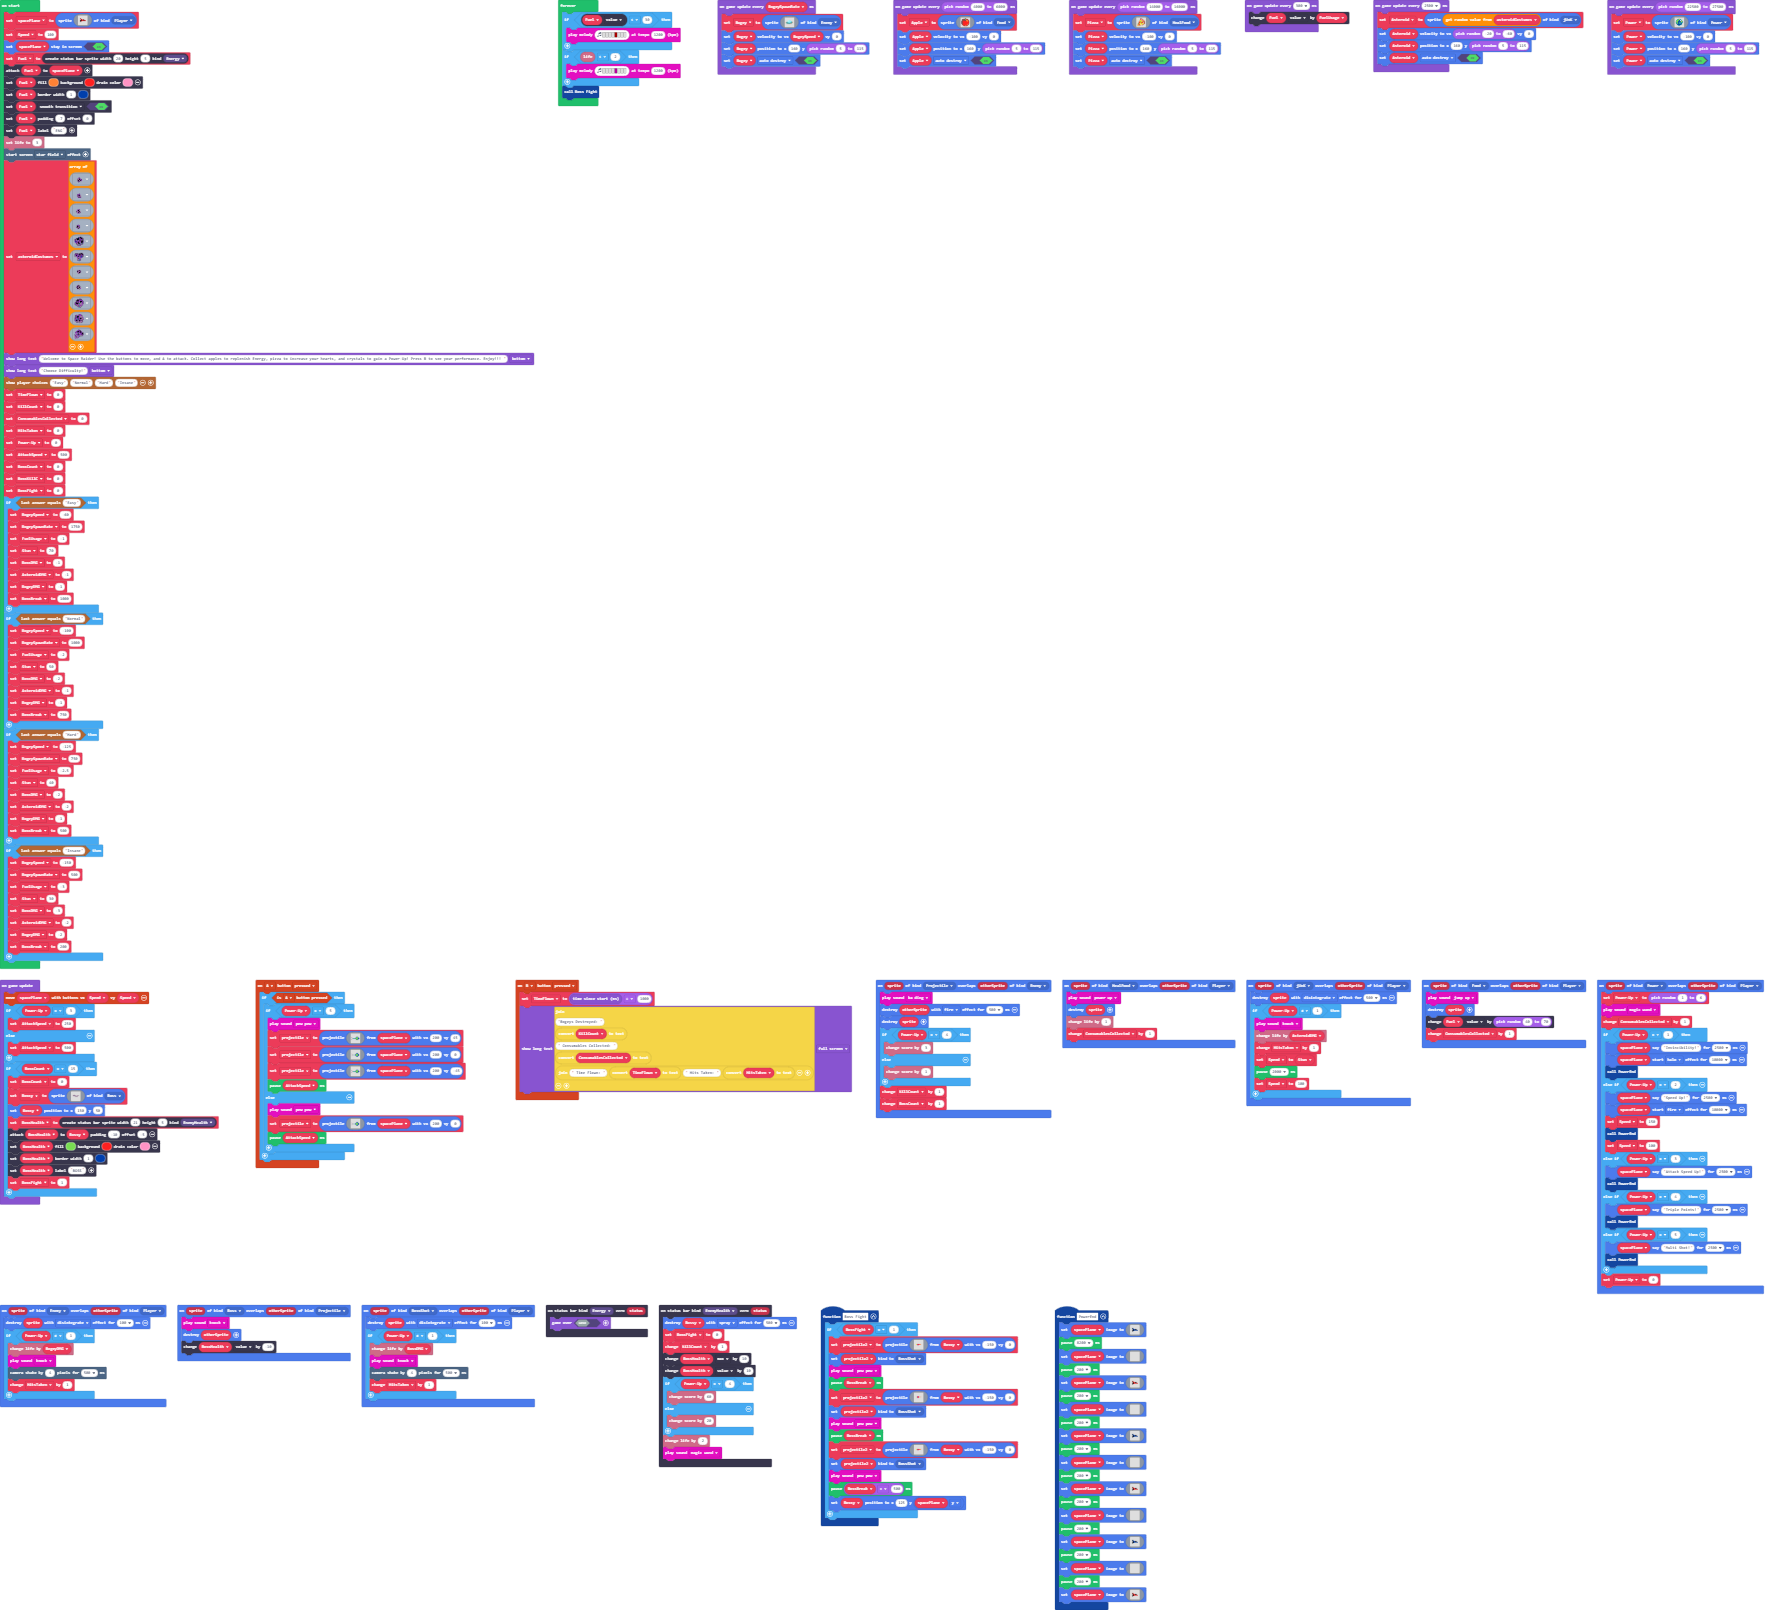
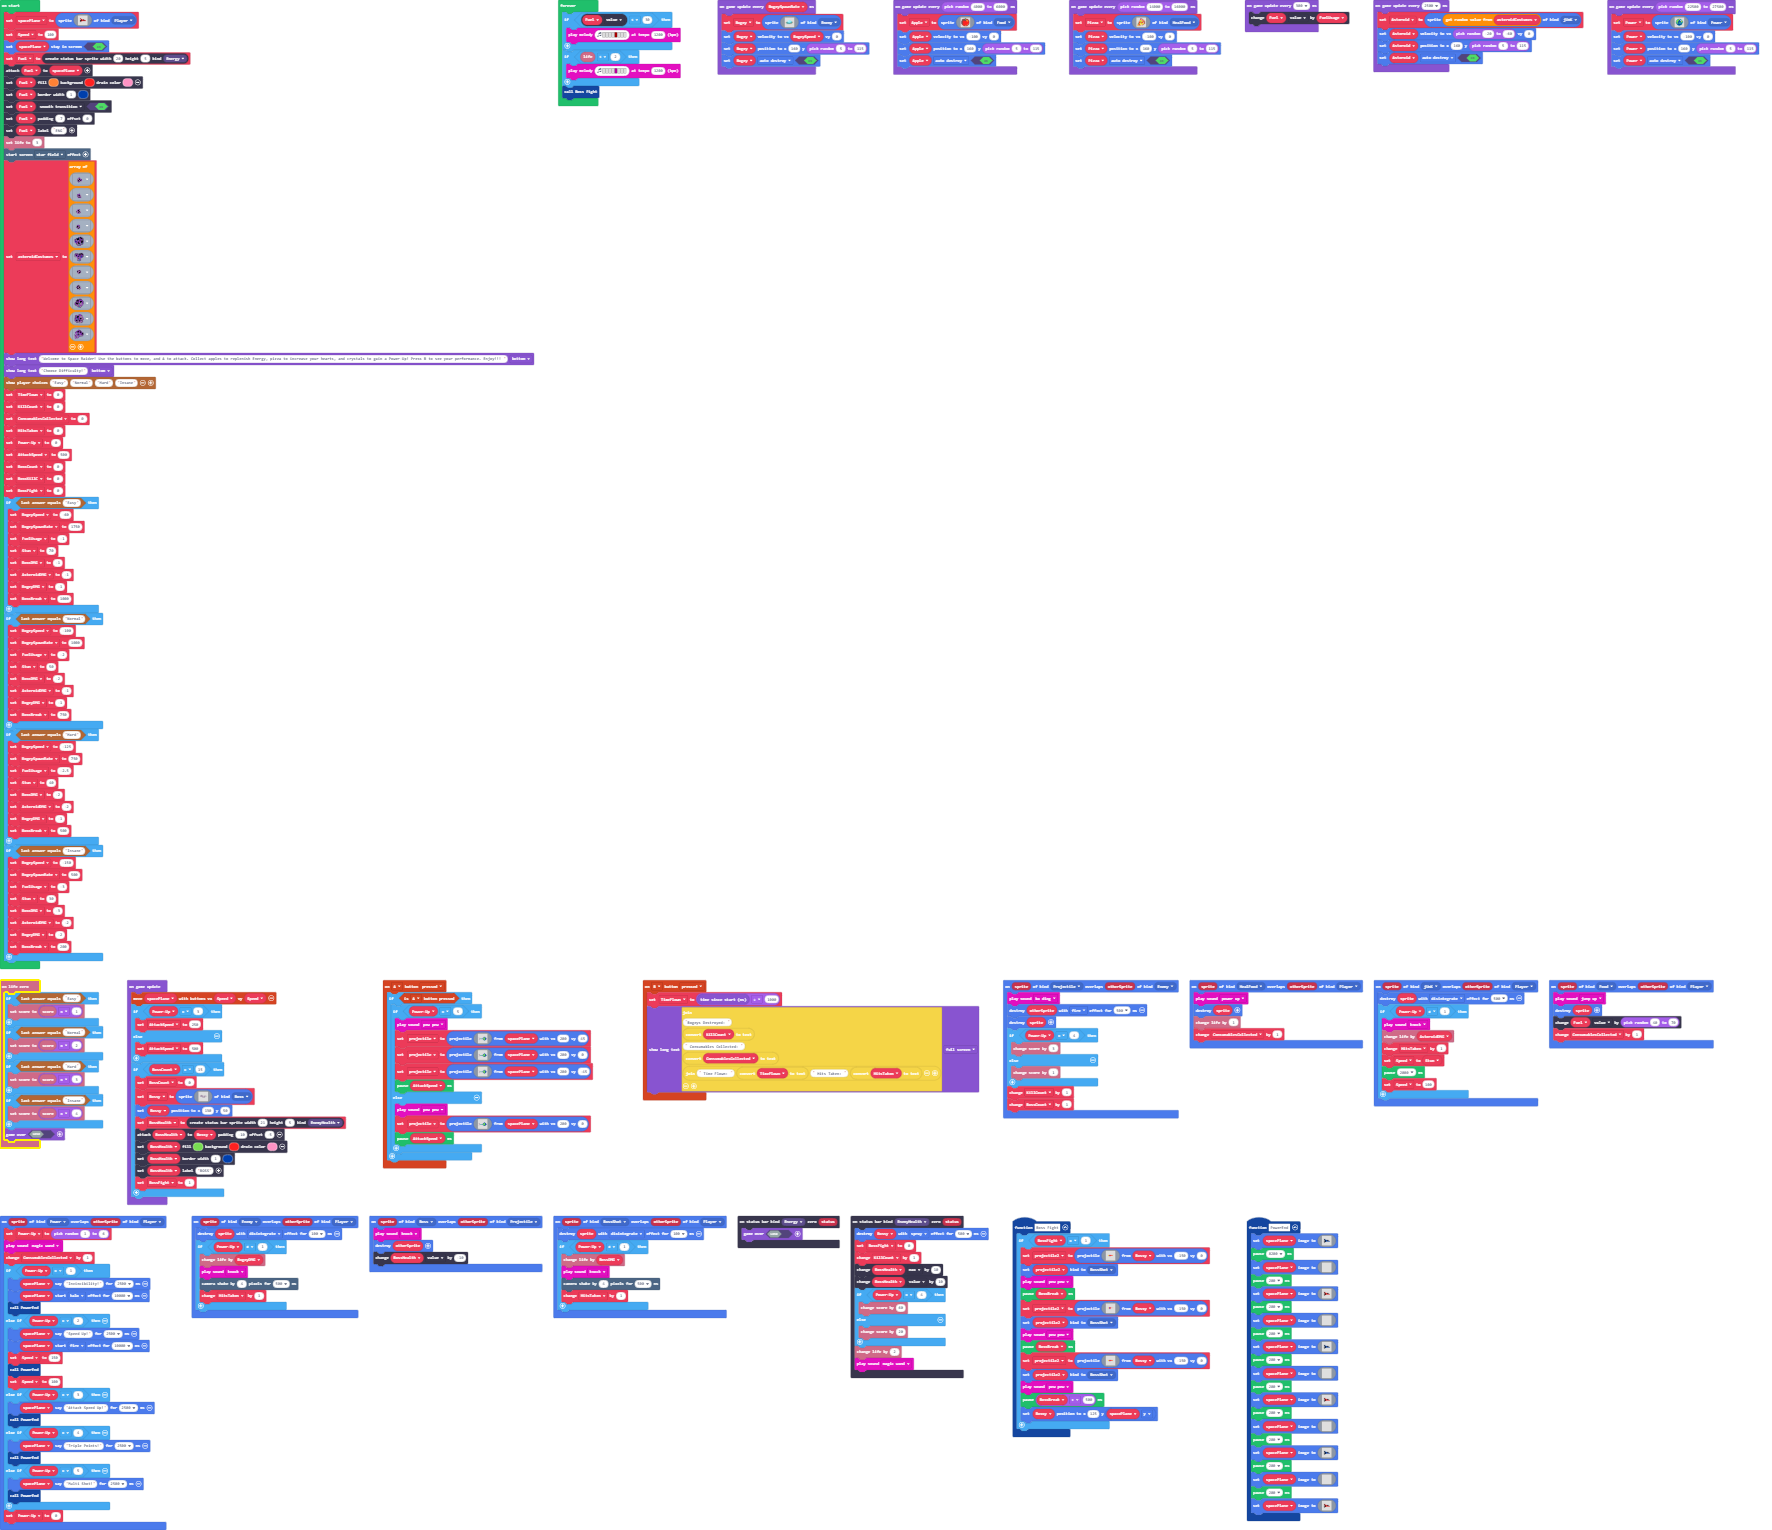
Update main.blocks, main.ts

Changed region(s): [[0.0, 0.0, 0.9932, 1.0], [0.3104, 0.0, 0.9932, 0.0922]]

diff --git a/main.ts b/main.ts
@@ -298,6 +298,21 @@ sprites.onOverlap(SpriteKind.jUnK, SpriteKind.Player, function (sprite, otherSpr
         Speed = 100
     }
 })
+info.onLifeZero(function () {
+    if (story.checkLastAnswer("Easy")) {
+        info.setScore(info.score() * 1)
+    }
+    if (story.checkLastAnswer("Normal")) {
+        info.setScore(info.score() * 2)
+    }
+    if (story.checkLastAnswer("Hard")) {
+        info.setScore(info.score() * 3)
+    }
+    if (story.checkLastAnswer("Insane")) {
+        info.setScore(info.score() * 4)
+    }
+    game.over(false)
+})
 statusbars.onZero(StatusBarKind.Energy, function (status) {
     game.over(false)
 })
